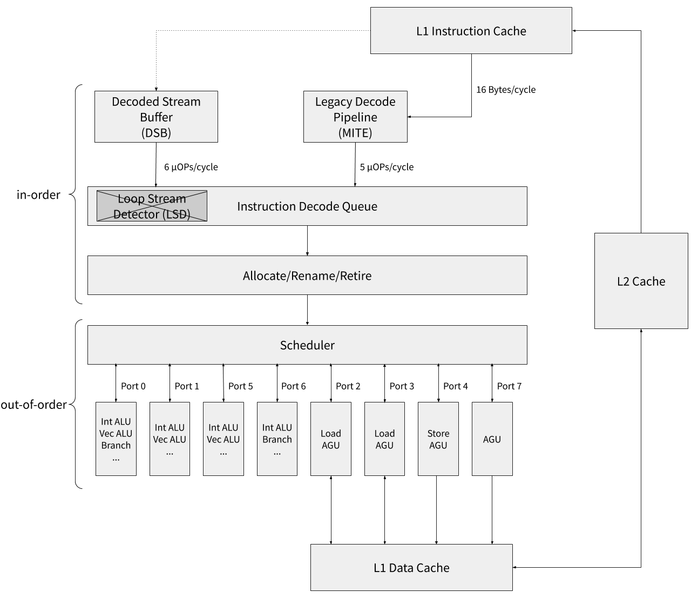
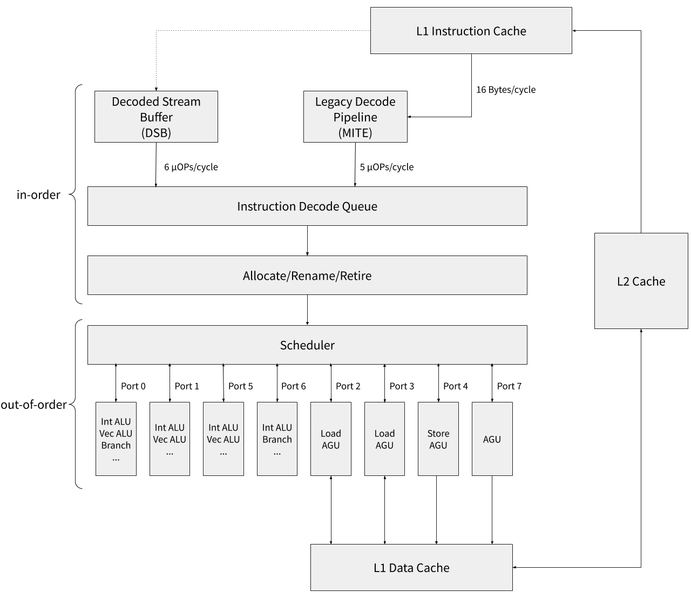
Add adders chart

Changed region(s): [[0.1216, 0.301, 0.3039, 0.3913]]

diff --git a/_posts/2020-01-28-addition.md b/_posts/2020-01-28-addition.md
@@ -22,7 +22,7 @@ Introduction
 -->
 
 As explained in post [2 - Bitslicing]({{ site.baseurl }}{% post_url
-2020-01-14-bitslicing %}), bitsliced codes cannot use arithmetic
+2020-01-14-bitslicing %}), bitsliced programs cannot use arithmetic
 instructions. Instead, arithmetic must be reimplemented using bitwise
 logical gates. While this certainly increases code size compared to a
 non-bitsliced code, it's not obvious how it affects performances: on
@@ -37,13 +37,12 @@ performances we might expect from bitsliced arithmetic. Recall that a
 _n_-bit ripple-carry adder is a chain of _n_ full adders, each
 composed of 5 instructions, for a total of _n*5_ instructions. Running
 this bitsliced adder on _m_-bit registers computes _m_ additions in
-parallel, thus reducing its cost to _n*5/m_ instructions per addition.
+parallel, thus amortizing its cost to _n*5/m_ instructions per addition.
 
-However, this adder is unlikely to execute in exactly _n*5_ cycles on
-modern high-end CPUs, whose microarchitectures are complex: number of
-registers, superscalarity, and cache latency will all impact
-performances. In this post, we will benchmark such an adder against
-native `add` instructions, and show that in most cases, bitsliced
+On a high-end CPU, this adder is unlikely to execute in exactly _n*5_
+cycles. The number of registers, superscalarity, and cache latency
+will all impact performances. In this post, we will benchmark our
+adder against the native `add` instructions, and show that bitsliced
 additions are less efficient that native ones.
 
 ## Sylake CPU background
@@ -72,7 +71,10 @@ Skylake CPU background
 -->
 
 
-The Skylake CPU is a deeply pipelined microarchitecture (_i.e._ it can
+At the time of writting, the most recent Intel CPUs are derived from
+the Skylake microarchitecture. All the information provided in this
+section apply Kaby Lake and Coffee Lake as well as Skylake. The
+Skylake CPU is a deeply pipelined microarchitecture (_i.e._ it can
 contain many instructions at the same time, all going through
 different phases), illustrated by the following schema:
 
@@ -80,16 +82,17 @@ different phases), illustrated by the following schema:
 <img src="{{ site.baseurl }}/assets/images/blog/Skylake-simplified-small.png">
 </p>
 
+
+The pipeline consists of 2 main phases: the _front end_ retrieves and
+decodes instructions in-order from the L1 instruction cache, while the
+_out-of-order execution engine_ actually executes the instructions. The
+instructions are finally removed in-order from the pipeline by the
+retiring unit.
+
 Note that this is a simplified view of the Skylake microarchitecure,
 whose purpose is only to explain what matters to us, and to show which
 parts we will be focusing on when analyzing the performances of our
 programs.
-
-We can see the pipelines consists of 2 main phases: the front end
-retrieves and decodes instructions in-order from the L1 instruction
-cache, while the out-of-order execution engine actually executes the
-instructions. The instructions are finally removed in-order from the
-pipeline by the retiring unit.
 
 
 ### Front end
@@ -103,9 +106,9 @@ Pipeline (MITE). The MITE operates in the following way:
    
  - up to 6 macro-ops per cycle are delivered to the instruction queue
    (IQ), which performs macro-fusion: some common patterns are
-   identified and optimized by fusing their macro-ops together. For
+   identified and optimized by fusing macro-ops together. For
    instance, an increment followed by a conditional jump, often found
-   at the end of a loop, can fuse together in a single macro-op.
+   at the end of a loop, may fuse together in a single macro-op.
    
  - the IQ delivers up to 5 macro-ops per cycle to the decoders. The
    decoders convert each macro-ops into one or several μops, which are
@@ -125,13 +128,6 @@ instructions that have already been decoded. The DSB delives up to 6
 μops per cycles, directly to the IDQ.
 
 
-Originally, the whole front end could be entirely bypassed even
-further by the Loop Stream Detector (LSD), which was able to detect
-loop are would continue emit the loop's µops until a branch
-mis-prediction would occur. However, due to a bug with
-hyper-threading, this feature is now disabled (erratum SKL150).
-
-
 
 ### Execution engine
 
@@ -142,7 +138,7 @@ they are retired: all ressources allocated for them are freed, and the
 µops are effectively removed from the pipeline.
 
 
-The renamer fetchers up to 6 µops per cycle from the IDQ. It renames
+The renamer fetches up to 6 µops per cycle from the IDQ. It renames
 architectural registers (_e.g._ `rax`, `rdx`) into micro-architectural
 registers (also known as physical registers). It determines the
 possible execution ports for each instruction, and allocates any
@@ -163,8 +159,8 @@ it performs:
 
 The scheduler then dispatches µops out-of-order to the execution units
 of the execution core. When an instruction could be executed on
-several execution units, the scheduler chooses one using an unknown
-algorithm.
+several execution units, the scheduler chooses one (the algorithm is
+not specified).
 
 The execution core consists of several execution units, each able to
 execute some specific type of µops, and accessed through 8 ports:
@@ -180,10 +176,11 @@ execute some specific type of µops, and accessed through 8 ports:
  
 
 Up to 4 general purpose arithmetic instructions can therefore be
-executed each cycle. In a loop however, this would not leave any free
-port for the branch to execute.
+executed in each cycle. In a loop however, this would not leave any
+free port for the branch to execute, since the ports used by branch
+instructions are 0 and 6, also used by arithmetic instructions.
 
-The instructions are then remove from the pipeline in-order by the
+The instructions are then removed from the pipeline in-order by the
 retiring unit. All ressources allocated for them are freed, and
 fault and exceptions are handled at that stage.
 
@@ -209,36 +206,32 @@ We consider 3 different additions for our evaluation:
    used: 8-bit, 16-bit and 32-bit. Since their number of instructions
    are _5*n_, we could expect the 32-bit adder to be twice slower than
    the 16-bit, which itself would be twice slower than the 8-bit
-   adder. However, larger adders put more pressure on registers, which
-   could reduce performances, hence the need for benchmarking all
-   three versions.
+   adder. However, the larger the adder, the higher the register
+   pressure. Our benchmark aims at quantifing this effect.
    
  - an addition done using a single CPU instruction. For completness,
    we consider the 8, 16 and 32-bit variants of the addition; all of
    which should have the same throughput and latency. On general
    purpose (GP) registers, only one addition can be done with a single
-   instruction. However, SSE instructions allow to do 4 32-bit, or 8
-   16-bit or 16 8-bit additions with a single instruction. This does
-   not reduce latency, but increases throughput.
+   instruction. However, SSE instructions allow us to perform 4
+   32-bit, or 8 16-bit or 16 8-bit additions with a single
+   instruction. This increases throughput without changing latency.
  
- - 3 independent additions done with 3 CPU instructions. Doing only a
+ - 3 independent additions done with 3 CPU instructions. Doing a
    single addition per cycle under-utilizes the superscalar
    capabilities of modern CPUs: up to 3 SSE additions (and 4 on GP)
    can be done each cycles. Once again, we consider the 8, 16 and
    32-bit variants, on both SSE and GP.
 
 We implemented those additions in C, and put each of them in a loop
-doing 2 billion iterations. This takes less than a second for the
-second and third additions, which might be considered too short for
-some benchmarks, but since we are merely micro-benchmarking a handful
-of CPU instructions, this is enough. We repeat this process 10 times,
-and report the average of the 10 runs in the next section. The
-standard deviation being less than 5 percents, we omit it in order to
-avoid needlessly obsucating the result table.
+doing 2 billion iterations. We repeat this process 10 times, and
+report the average of the 10 runs in the next section. The standard
+deviation being less than 5 percents, we omit it in order to reduce
+clutter.
 
-We compiled our C codes using Clang 7.0.0, but given the simplicity of
-the generated assembly codes, the choice of compiler should not
-matter. Finally, we ran the benchmarks on a Intel Skylake i5-6500.
+We compiled our C codes using Clang 7.0.0. We tried GCC 8.3.0 as well,
+but it generates sub-optimal codes, containing more instructions than
+necessary. Finally, we ran the benchmarks on a Intel Skylake i5-6500.
 
 
 ## Results
@@ -261,7 +254,7 @@ matter. Finally, we ran the benchmarks on a Intel Skylake i5-6500.
  - bitslice vs others?
 -->
 
-We report in the following table the cycles per iteration and cycles
+In the following table, we report the cycles per iteration and cycles
 per addition. `bitslice` is the bitsliced addition using a
 ripple-carry adder. `native_single` is a single native additions using
 a single instruction. `native_parallel` is the three independent
@@ -319,28 +312,38 @@ Since SSE addition can execute on either port 0, 1 or 5, three of them
 could be done in a single cycle, provided that they don't have
 dependencies (_i.e._ none uses the output of another one). The
 increment and jump of the loop would fuse and be executed on port 6,
-thus not perturbing the additions.
+independently of the additions.
 
 Once again, this corresponds to the numbers we observe experimentally:
 1 cycle/iteration regarderless of the size of the additions. Since 3
-`padd` instructions are executed each cycle, the cost par addition is
-a third of `native_single`'s: 0.08 for 32-bit, 0.04 for 16-bit and
+`padd` instructions are executed in each cycle, the cost par addition
+is a third of `native_single`'s: 0.08 for 32-bit, 0.04 for 16-bit and
 0.02 for 8-bit.
 
 
 ### Bitslice addition (`bitslice`)
 
-Recall that the _n_-bit ripple-carry adder contains _n*5_
-instructions. It relies solely on bitwise instructions, which can be
+Recall that the _n_-bit ripple-carry adder contains _n_
+full-adders. In practice, 3 operations can be omitted from the first
+full-adder, since it always receives a 0 as input carry. Likewise, 3
+more operations can be saved from the last full-adder, since its
+output carry is never used and doesn't need to be computed. The total
+numbers of operations of the _n_-bit adder is therefore _n*5-6_.
+Those operations are solely bitwise instructions, which can be
 executed on ports 0, 1 and 5 on SSE registers (and on port 6 as well
-on GP registers). The least amount of cycles this adder can execute in
-is therefore _n*5/3_.
+on GP registers). This adder is therefore bound to run in at least
+_n*5/3_ cycles.
 
-In isolation, a full adder contains inner dependencies, preventing
-them from execute in less than 3 cycles. However, in an _n_-bit adder,
-out-of-order execution can allow multiple full adders to execute
-simultaneously, thus allowing a saturation of CPU ports 0, 1 and 5
-despite the dependencies within each full adder.
+In isolation, a full adder contains inner dependencies, preventing it
+from executing in less than 3 cycles. However, in an _n_-bit adder,
+out-of-order execution enables multiple full adders to execute
+simultaneously, allowing a saturation of CPU ports 0, 1 and 5 despite
+the dependencies within each full adder.
+
+
+<p align="center">
+<img src="{{ site.baseurl }}/assets/images/blog/adders-chart-small.png">
+</p>
 
 The 8-bit SSE adder runs in 14.77 cycles, slightly slower than the
 13.3 theoretical minimum (_n_\*5/3 = 8*5/3 = 13.3). The 16 and 32-bit
@@ -351,12 +354,12 @@ its 16-bit and 32-bit versions have similar performances as their SSE
 counterparts.
 
 
-The lower performances than expected can be explained by 2 factors:
+This slow down is explained by 2 factors:
 
  - Spilling: a bitsliced _n_-bit adder has _n*2_ inputs, _n_ outputs,
    and _n*5_ temporary variables. Even though most of the temporary
-   variables are short lived, the pressure on the registers remains
-   high: there are only 16 SSE registers available and 15 GP registers
+   variables are short lived, the register pressure remains high:
+   there are only 16 SSE registers available and 15 GP registers
    (since one register is always kept for the stack pointer). The
    8-bit SSE adder doesn't suffer from spilling, but all other adders
    are affected.
@@ -372,8 +375,8 @@ The lower performances than expected can be explained by 2 factors:
    enough to slightly slow down the bitslice adders. AVX introduced
    non-destructive 3-operand instructions. Using those instead of the
    SSE ones, the 8-bit adder executes at its optimal speed (it does
-   not contain spilling). The other adders are still affected by
-   spilling, but still have better performances than on SSE.
+   not contain spilling). The other adders remain affected from
+   spilling, but improve accross the board.
    
    
 Since the CPU can do 4 GP bitwise instructions per cycle, and only 3
